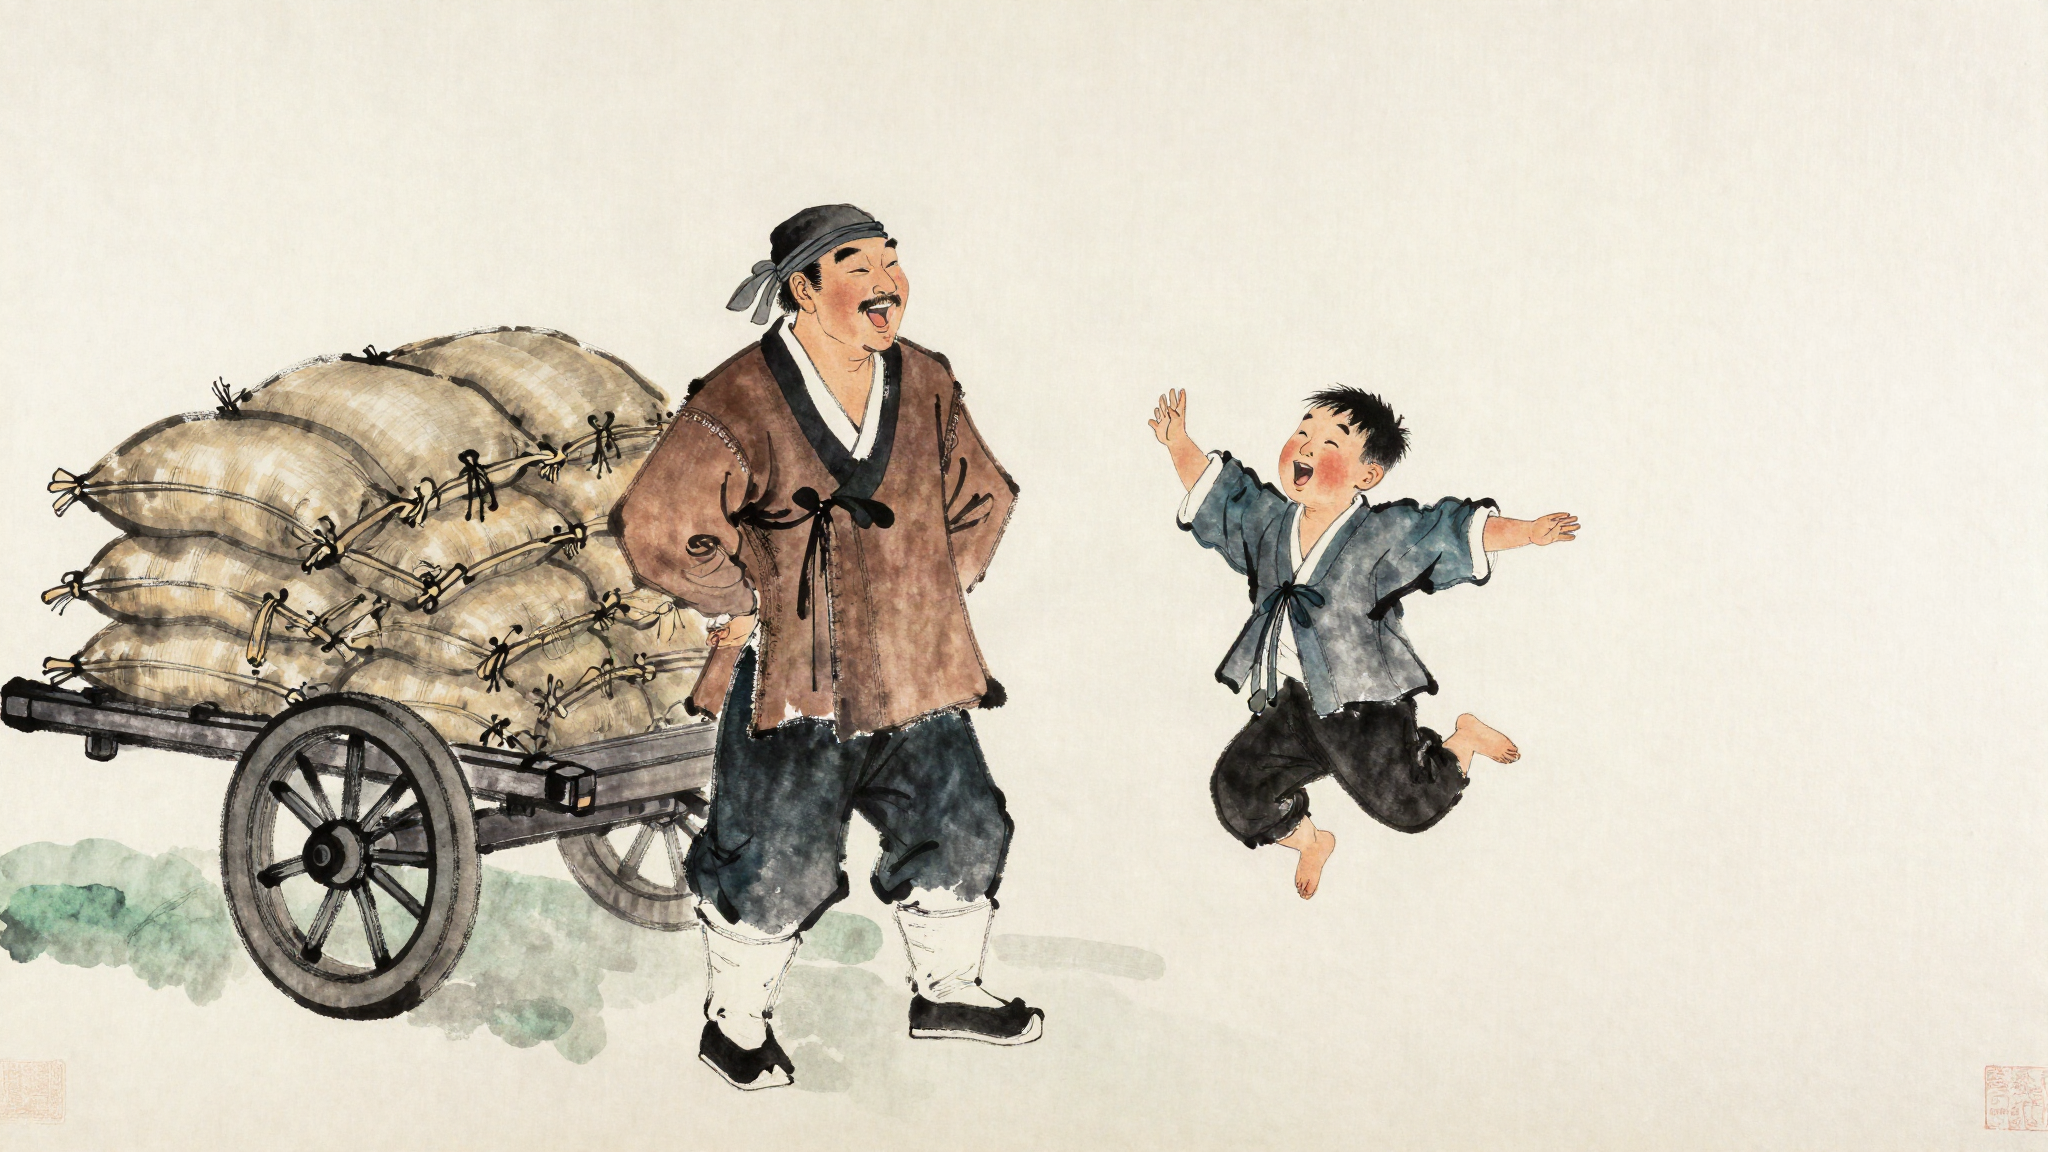
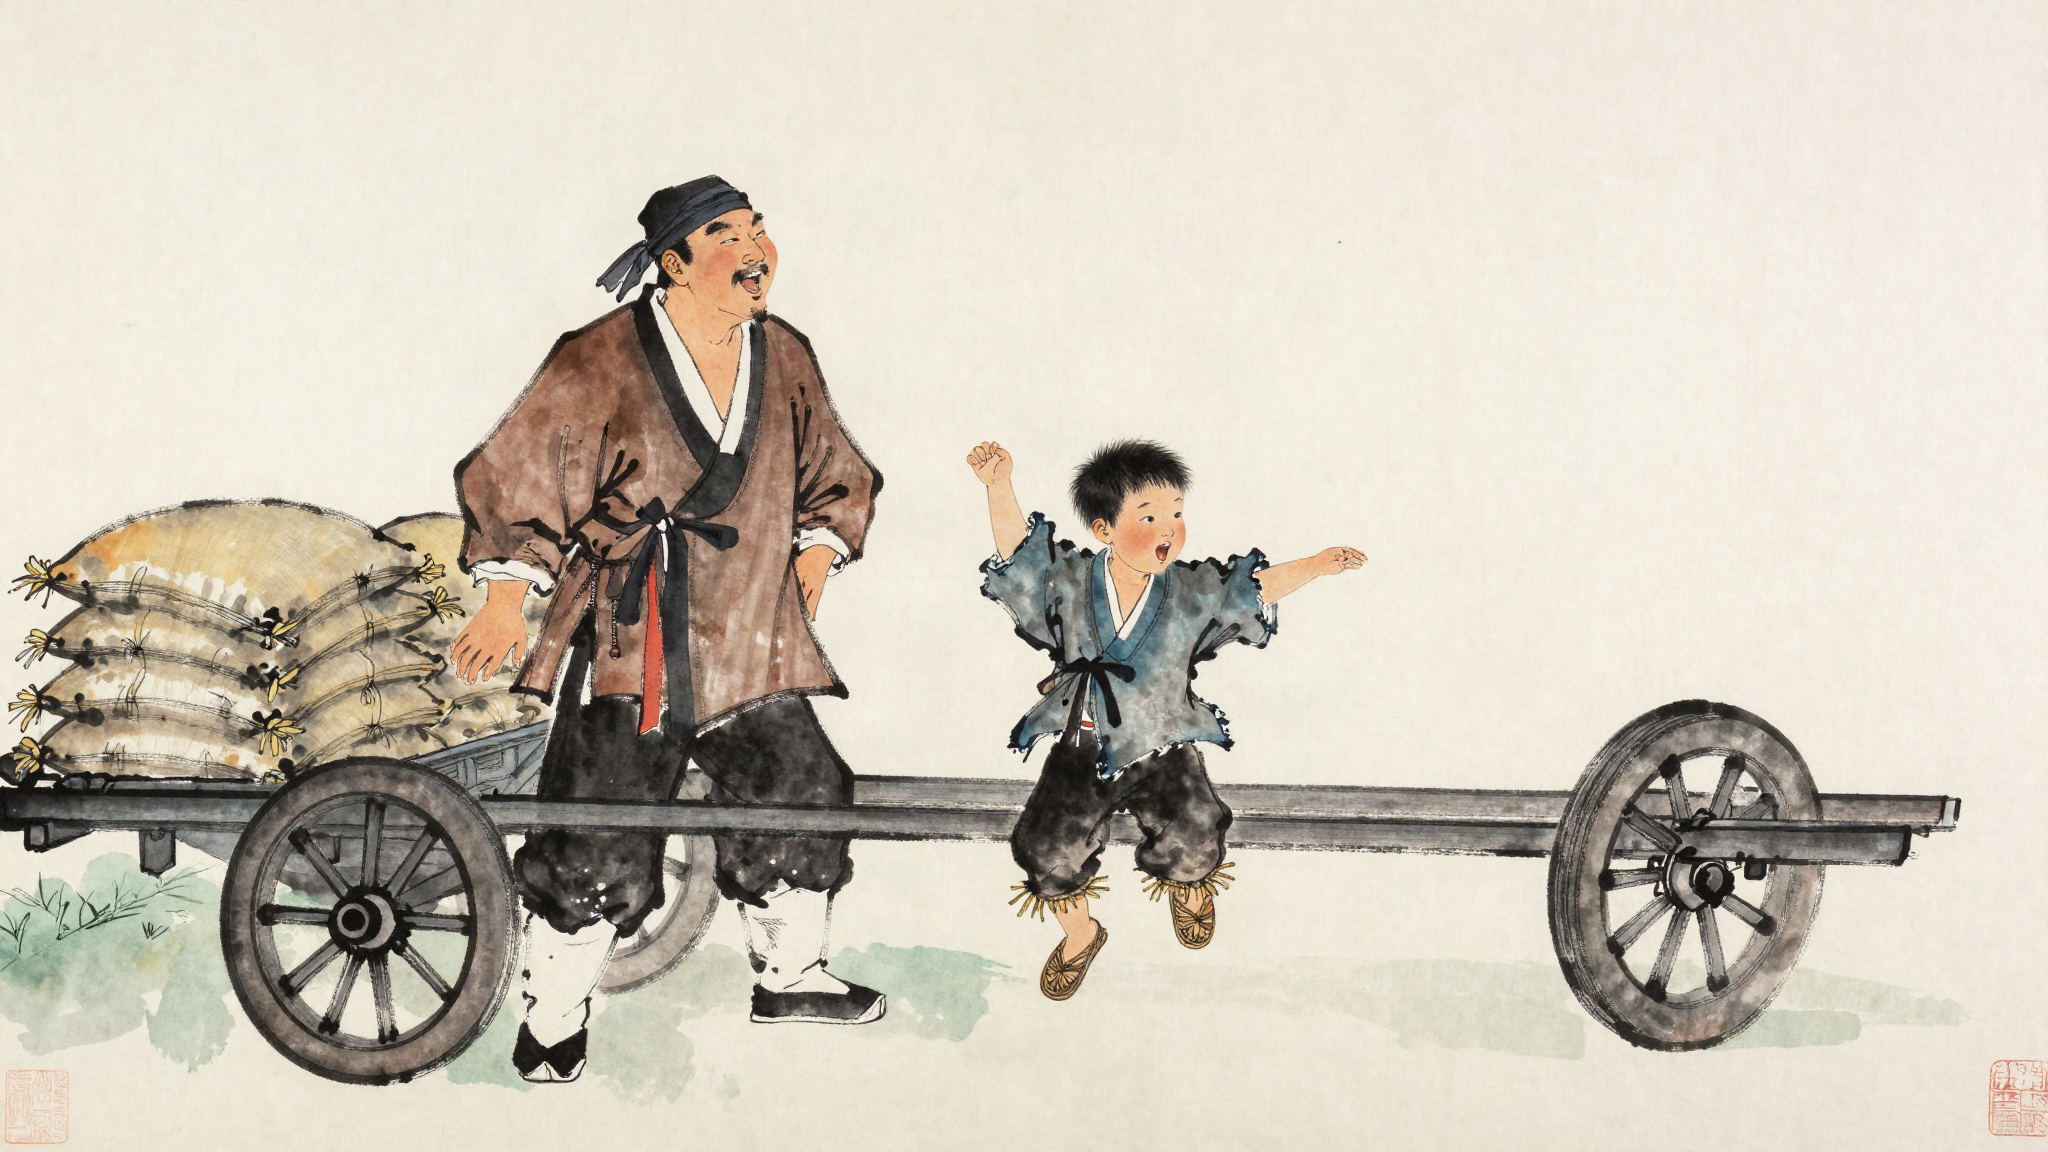
허허서방 3편: 막동이 신발을 짚신으로 고정, 검정 신 신은 S12·S27·S43 재생성

diff --git a/docs/전래동화/03_까치호랑이그리던떠돌이환쟁이/웹프롬프트.md b/docs/전래동화/03_까치호랑이그리던떠돌이환쟁이/웹프롬프트.md
@@ -31,7 +31,7 @@ Korean traditional minhwa folk painting in ink-wash damchae style, matching the 
 참고 그림: `docs/전래동화/그림체샘플/A_민화수묵/02.png`
 
 ```
-Korean traditional minhwa folk painting in ink-wash damchae style, matching the style of the reference image: confident black ink brush outlines, soft muted watercolor washes of indigo, ochre, persimmon red and pine green on aged cream hanji paper. Bright and clear, faces large and readable. No text, no letters anywhere. Scene: Scene in a noble mansion courtyard: 1. TOP, on the raised wooden hall: a haughty court painter in a blue silk robe and gat pointing down angrily with his fan. 2. BOTTOM LEFT, kneeling on the ground, held by one servant: a lean street painter in a patched brown jacket and headband, an adult man with a mustache, looking up. 3. BOTTOM RIGHT: a skinny eight-year-old boy with messy short black hair in a ragged gray patched jacket crying, the same boy as in the reference image.
+Korean traditional minhwa folk painting in ink-wash damchae style, matching the style of the reference image: confident black ink brush outlines, soft muted watercolor washes of indigo, ochre, persimmon red and pine green on aged cream hanji paper. Bright and clear, faces large and readable. No text, no letters anywhere. Scene: Scene in a noble mansion courtyard: 1. TOP, on the raised wooden hall: a haughty court painter in a blue silk robe and gat pointing down angrily with his fan. 2. BOTTOM LEFT, kneeling on the ground, held by one servant: a lean street painter in a patched brown jacket and headband, an adult man with a mustache, looking up. 3. BOTTOM RIGHT: a skinny eight-year-old boy with messy short black hair in a ragged gray patched jacket and woven straw sandals crying, the same boy as in the reference image.
 ```
 
 ## S34
@@ -55,5 +55,5 @@ Korean traditional minhwa folk painting in ink-wash damchae style, matching the 
 참고 그림: `docs/전래동화/그림체샘플/A_민화수묵/02.png`
 
 ```
-Korean traditional minhwa folk painting in ink-wash damchae style, matching the style of the reference image: confident black ink brush outlines, soft muted watercolor washes of indigo, ochre, persimmon red and pine green on aged cream hanji paper. Bright and clear, faces large and readable. No text, no letters anywhere. Scene: Scene in a noble courtyard: 1. STANDING: a dignified white-bearded old nobleman in an ivory robe and gat, stern and dignified. 2. KNEELING before him with forehead to the ground: a haughty court painter in a blue silk robe and gat, his silk robe spread on the dirt. 3. BACKGROUND RIGHT: a lean street painter in a patched brown jacket and headband, an adult man with a mustache, standing with a skinny eight-year-old boy with messy short black hair in a ragged gray patched jacket, the same boy as in the reference image, both surprised.
+Korean traditional minhwa folk painting in ink-wash damchae style, matching the style of the reference image: confident black ink brush outlines, soft muted watercolor washes of indigo, ochre, persimmon red and pine green on aged cream hanji paper. Bright and clear, faces large and readable. No text, no letters anywhere. Scene: Scene in a noble courtyard: 1. STANDING: a dignified white-bearded old nobleman in an ivory robe and gat, stern and dignified. 2. KNEELING before him with forehead to the ground: a haughty court painter in a blue silk robe and gat, his silk robe spread on the dirt. 3. BACKGROUND RIGHT: a lean street painter in a patched brown jacket and headband, an adult man with a mustache, standing with a skinny eight-year-old boy with messy short black hair in a ragged gray patched jacket and woven straw sandals, the same boy as in the reference image, both surprised.
 ```
